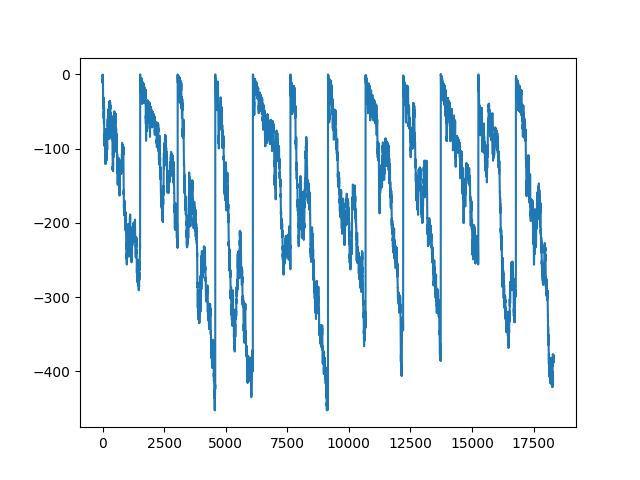
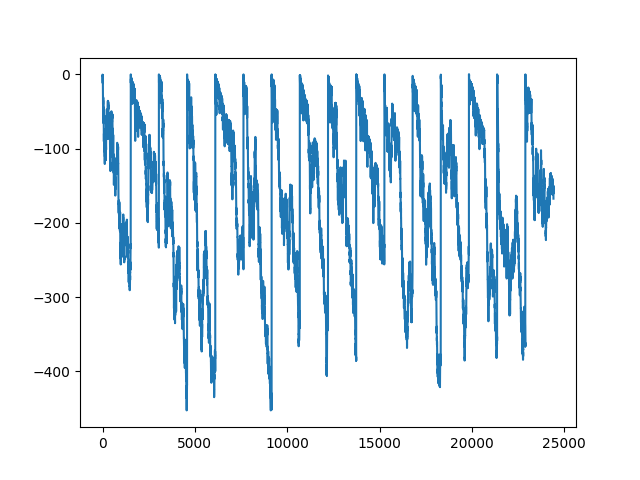
choosing on app now launch the agent in backend

Changed region(s): [[0.1562, 0.1562, 0.875, 0.8438], [0.4062, 0.9062, 0.9062, 0.9375], [0.2188, 0.9062, 0.375, 0.9375]]

diff --git a/src/templates/index.html b/src/templates/index.html
@@ -4,7 +4,7 @@
         <p> Coucou lucien</p>
         <form action="{{ url_for("index")}}" method="post">
         <button type="submit" name="submit_button" value="view_value">View value</button>
-
+        <br>
         <form action="{{ url_for("index")}}" method="post">
         <select name="agent">
         <option value="random">Random agent</option>

diff --git a/src/main.py b/src/main.py
@@ -23,6 +23,7 @@ done = False
 
 @app.route('/', methods = ["GET", "POST"])
 def index():
+    global state, done
     if request.method == "POST":
         if request.form['submit_button'] == "view_value":
             df = pd.read_csv('logs.csv', sep=",")
@@ -35,19 +36,25 @@ def index():
             plt.savefig('src' + base_url_cash)
             return render_template('reward.html', name='Rewards over time', url=base_url, url_cash=base_url_cash)
         else:
-           return request.form['agent']
+           run(done, state)
+           agent = request.form['agent']
+           return agent
     return render_template('index.html')
 
-while not done:
-    action = agent.action(state)
-    print(action)
-    next_state, reward, done, info = env.step(action)
+def run(done, state):
+    while not done:
+        action = agent.action(state)
+        print(action)
+        next_state, reward, done, info = env.step(action)
 
-    state = next_state
-    f = open("logs.csv", "a+")
-    f.write(str(reward) + ',' + str(done) + ',' + str(info["cash"]) + '\n')
-    f.close()
-    print(state, reward, done, info)
+        state = next_state
+        f = open("logs.csv", "a+")
+        f.write(str(reward) + ',' + str(done) + ',' + str(info["cash"]) + '\n')
+        f.close()
+        print(state, reward, done, info)
 
-if len(sys.argv) > 1 and sys.argv[1] == "--logs":
-    app.run(host='localhost', port=5000)
+if __name__ == '__main__':
+    if len(sys.argv) > 1 and sys.argv[1] == "--interactive":
+        app.run(host='localhost', port=5000)
+    else:
+        run(done, state)
